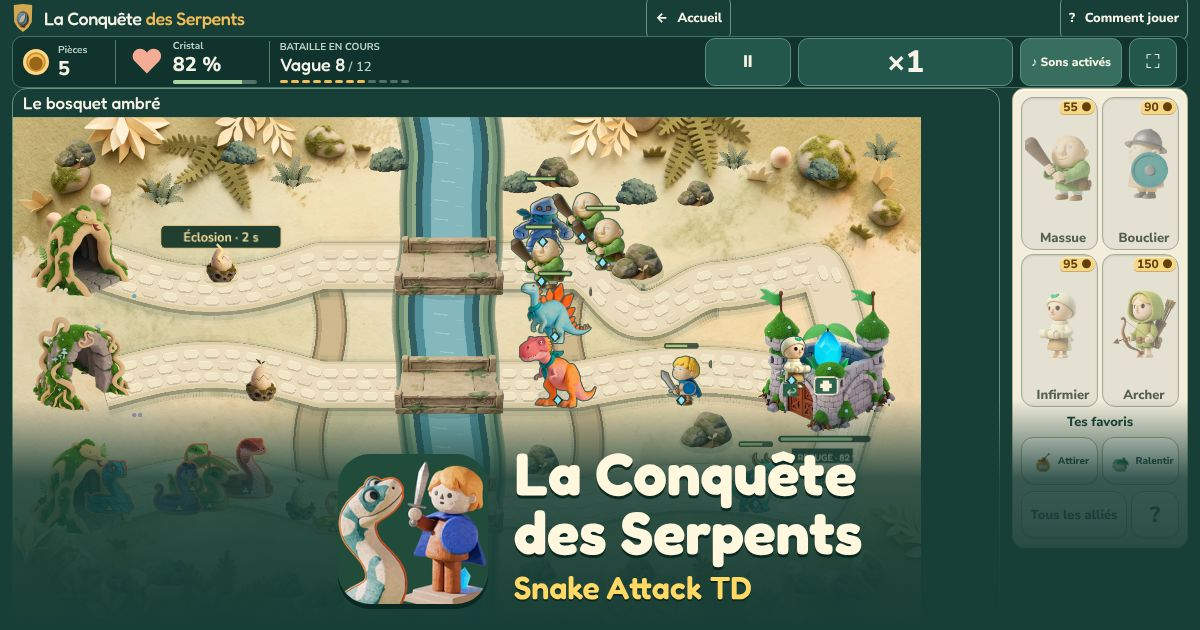
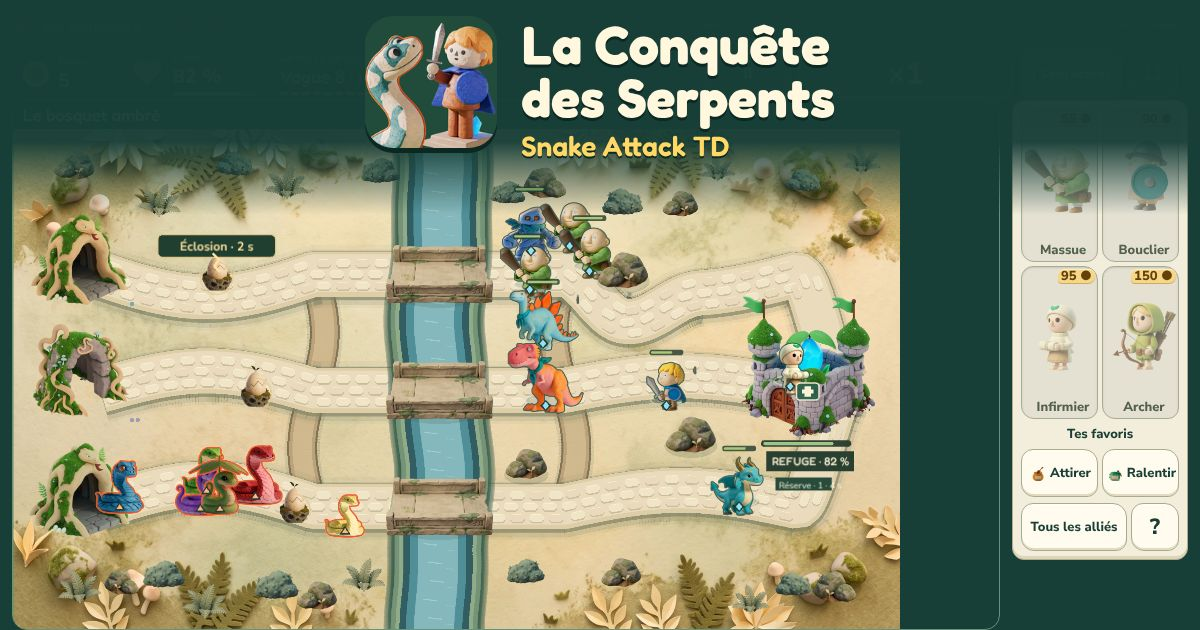
Corrections de la deuxième relecture : annonce et plaques, écran anglais, image de partage
- En bas du plateau, la ligne d'annonce se place au-dessus des plaques « Courage ! » et
  « Confusion » au lieu de cacher leur début : la scène dit à la page quand elle écrit là.
- Écran anglais « Threats » : « Voies ouvertes » restait en français (deux textes collés) ;
  c'est une seule phrase à trou.
- Écran des cadeaux sur téléphone : le clavier ne passe plus sur le plateau et les favoris
  cachés derrière le panneau ; anneau de focus plus foncé sur le papier ; anneau du plateau
  dessiné à l'intérieur.
- Image de partage : titre posé en haut, sur l'en-tête de la page ; tout le plateau reste
  visible (le bandeau cachait les serpents de la voie du bas).
- Documents : phrases devenues fausses corrigées, index des documents, décisions du parent
  et questions pour le fils issues de la relecture.

Claude-Session: https://claude.ai/code/session_0153huJungw2KXDp7mHDZLQs

diff --git a/src/render/BattleScene.ts b/src/render/BattleScene.ts
@@ -57,7 +57,7 @@ export class BattleScene extends Phaser.Scene {
   /** Canvas width the camera, the labels and the terrain cache were last fitted to. */
   private fittedWidth = 0;
   private motionQuery = window.matchMedia('(prefers-reduced-motion:reduce)');
-  private onPresentation: (notice: Notice | null, deltaMs: number) => void;
+  private onPresentation: (notice: Notice | null, deltaMs: number, plaques: boolean) => void;
   private resultStats!: Phaser.GameObjects.Text;
   private resultSubtitle!: Phaser.GameObjects.Text;
   private celebration!: Phaser.GameObjects.Graphics;
@@ -82,7 +82,7 @@ export class BattleScene extends Phaser.Scene {
     session: Session,
     onChange: () => void,
     onFrame: (game: Game) => void = () => {},
-    onPresentation: (notice: Notice | null, deltaMs: number) => void = () => {},
+    onPresentation: (notice: Notice | null, deltaMs: number, plaques: boolean) => void = () => {},
   ) {
     super('Battle');
     this.session = session;
@@ -250,7 +250,14 @@ export class BattleScene extends Phaser.Scene {
     }
     const game = this.session.game;
     this.presentation.update(game, delta);
-    this.onPresentation(this.presentation.notice, delta);
+    // The plaques of confusion and courage are written at the bottom of the board, where
+    // the line of the page announces events: the page is told, and steps aside.
+    const encounter = this.presentation.encounter;
+    this.onPresentation(
+      this.presentation.notice,
+      delta,
+      !!(encounter.confusion || encounter.encouragement),
+    );
     this.onFrame(game);
     this.ink.clear();
     this.honeyInk.clear();

diff --git a/src/ui/battleNotices.ts b/src/ui/battleNotices.ts
@@ -30,7 +30,8 @@ export function bindBattleNotices(
   const announcement = byId('battle-announcement');
   let previous = '';
   let previousAnnouncement = '';
-  return (notice: Notice | null, deltaMs = 0) => {
+  /** `plaques`: the board is writing at its bottom edge, where the announcement sits. */
+  return (notice: Notice | null, deltaMs = 0, plaques = false) => {
     const guide = getGuide(),
       placing = forceGuide();
     const { content, tone } = chooseBattleMessage(notice, guide, placing);
@@ -43,6 +44,7 @@ export function bindBattleNotices(
     });
     const title = notice?.title ?? (placing ? (guide.compact ?? guide.title) : (hint ?? ''));
     announcement.classList.toggle('placement-instruction', placing && !notice);
+    announcement.classList.toggle('above-plaques', plaques);
     if (title !== previousAnnouncement) {
       previousAnnouncement = title;
       setDisplayText(announcement, title);

diff --git a/src/ui/threatControls.ts b/src/ui/threatControls.ts
@@ -54,7 +54,9 @@ function showThreats(game: Game, preview: WaveThreats) {
   setDisplayText(byId('threat-title'), fill(TEXT.vagueNLesSerpentsAnnonces, preview.local));
   setDisplayText(
     byId('threat-lanes'),
-    TEXT.voiesOuvertes + preview.lanes.map((l) => LANE_NAMES[l]).join(' · '),
+    // One sentence with its place for the names: two texts stuck together are a sentence
+    // the English catalogue does not know, and half of it stayed in French.
+    fill(TEXT.voiesOuvertesN, preview.lanes.map((l) => LANE_NAMES[l]).join(' · ')),
   );
   const types = preview.entries.map((e) => e.kind);
   renderThreatCards(byId('wave-threat-list'), types);

diff --git a/src/i18n/dictionary.en.ts b/src/i18n/dictionary.en.ts
@@ -994,7 +994,7 @@ export const english: Readonly<Record<string, string>> = Object.freeze({
   "Vive": "Speedy",
   "Voici les prochains alliés. Le guide explique leurs rôles avant leur arrivée.": "Here are the next allies. The guide explains their roles before they arrive.",
   "Voie paisible.": "Peaceful lane.",
-  "Voies ouvertes :": "Open lanes:",
+  "Voies ouvertes : {0}": "Open lanes: {0}",
   "Voie{0} attaquée{1} : {2}. « — » : paisible.": "Lanes under attack: {2}. “—”: peaceful.",
   "Voir mes alliés": "See my allies",
   "Voir mon carnet": "View my sticker book",

diff --git a/src/texts/fr/advice.ts b/src/texts/fr/advice.ts
@@ -70,7 +70,7 @@ export const toucheADroiteN = 'Touche à droite · {0}';
 export const aRenforcerN = 'À renforcer : {0}';
 export const uneIdeeAvec = 'Une idée avec ';
 export const vagueNLesSerpentsAnnonces = 'Vague {0} · Les serpents annoncés';
-export const voiesOuvertes = 'Voies ouvertes : ';
+export const voiesOuvertesN = 'Voies ouvertes : {0}';
 export const nNEtAjouterDesSerpentsOrdinaires = '{0} {1} et ajouter des serpents ordinaires.';
 export const oeufPeutEclore = 'œuf peut éclore';
 export const oeufsPeuventEclore = 'œufs peuvent éclore';

diff --git a/src/styles/11-reinforcements.css b/src/styles/11-reinforcements.css
@@ -296,6 +296,12 @@
     background: var(--paper);
     color: var(--ink);
   }
+  /* The gifts cover the board and the favourites: what is under them is out of reach of a
+     keyboard too, instead of taking the focus where nothing shows it. */
+  #reward-panel:not([hidden]) ~ #game,
+  .play-layout:has(#reward-panel:not([hidden])) #battle-dock {
+    visibility: hidden;
+  }
   /* The way out without a gift sits beside the title, as tall as a finger: a row under the
      gifts would fall off a screen this low. */
   #reward-panel > * {

diff --git a/src/texts/en/advice.ts b/src/texts/en/advice.ts
@@ -68,7 +68,7 @@ export const toucheADroiteN = 'Tap on the right · {0}';
 export const aRenforcerN = 'Reinforce: {0}';
 export const uneIdeeAvec = 'An idea with';
 export const vagueNLesSerpentsAnnonces = 'Wave {0} · Incoming snakes';
-export const voiesOuvertes = 'Open lanes:';
+export const voiesOuvertesN = 'Open lanes: {0}';
 export const nNEtAjouterDesSerpentsOrdinaires = '{0} {1} and add ordinary snakes.';
 export const oeufPeutEclore = 'egg may hatch';
 export const oeufsPeuventEclore = 'eggs may hatch';

diff --git a/src/styles/16-dock.css b/src/styles/16-dock.css
@@ -135,6 +135,11 @@
   text-overflow: ellipsis;
   pointer-events: none;
 }
+/* Confusion and courage are written on the bottom edge of the board, 53 board units high
+   out of 620: the announcement goes just above them instead of over their words. */
+.battle-announcement.above-plaques {
+  bottom: calc(9% + 4px);
+}
 .battle-announcement.placement-instruction {
   width: max-content;
   max-width: calc(100% - 16px);

diff --git a/src/styles/01-base.css b/src/styles/01-base.css
@@ -68,6 +68,10 @@ summary:focus-visible,
   outline: 3px solid #dd9b25;
   outline-offset: 3px;
 }
+/* The board is clipped at its edges (03-board.css): its ring is drawn inside, whole. */
+#game:focus-visible {
+  outline-offset: -3px;
+}
 a {
   color: inherit;
   text-decoration: none;

diff --git a/src/styles/07-rewards.css b/src/styles/07-rewards.css
@@ -5,6 +5,10 @@
   color: #193e35;
   border-block: 1px solid #a0af91;
 }
+/* On paper the golden ring of the game is too pale to show where the focus is. */
+.reward-panel :focus-visible {
+  outline-color: #196a5b;
+}
 .reward-eyebrow {
   font-size: 11px;
   letter-spacing: 0.08em;

diff --git a/docs/SITE.md b/docs/SITE.md
@@ -206,9 +206,9 @@ Corrigé dans ce lot, sans décision à prendre :
 - Avant d'allumer la publicité : interdire au navigateur les fonctions publicitaires de
   profilage (`Permissions-Policy`), et adapter le contrôle du site en ligne, qui refuserait
   aujourd'hui la règle de sécurité de la page du jeu avec publicité.
-- Textes du jeu trop petits ou trop techniques pour un enfant qui lit lentement (10 à
-  12 px en paysage téléphone, textes du plateau à 5-9 px, « 1 alliés survivants ») : lot
-  suivant, rendu seul.
+- Textes du jeu trop petits pour un enfant qui lit lentement : traité le 18 novembre, sans
+  décision à prendre (`ARCHITECTURE.md`, « Textes lisibles sur téléphone »). Restent les
+  reformulations de phrases trop techniques, qui attendent l'accord du parent.
 
 Questions pour le fils (ses règles) :
 
@@ -220,6 +220,51 @@ Questions pour le fils (ses règles) :
 
 Non vérifié : aperçus réels dans les messageries ; compression et page 404 réelles de
 l'hébergeur ; aucun lecteur d'écran réel ; rien sur un vrai téléphone ni avec les enfants.
+
+### Deuxième relecture à huit angles — 18 novembre 2026
+
+Mêmes huit angles, sur les deux lots suivants (corrections du site, textes lisibles sur
+téléphone). Corrigé sans décision :
+
+- **Image de partage** : le bandeau du titre cachait les serpents de la voie du bas. Le
+  titre est maintenant posé en haut, sur l'en-tête de la page : tout le plateau reste
+  visible, et l'interface française de l'en-tête n'apparaît plus sur les pages anglaises.
+- **Écran anglais « Threats »** : « Voies ouvertes » restait en français, parce que deux
+  textes étaient collés bout à bout ; c'est maintenant une seule phrase à trou.
+- **Écran des cadeaux sur téléphone** : le clavier ne passe plus sur le plateau et les
+  favoris cachés derrière le panneau ; l'anneau de focus est plus foncé sur le papier.
+- **Documents** : phrases devenues fausses corrigées (pied de page de 8 pages et non 10,
+  dates, index des documents, numéro de build dans le README).
+
+Le détail du jeu (plaques du plateau, annonce) est dans `ARCHITECTURE.md`, « Textes lisibles
+sur téléphone ».
+
+À décider par le parent (rien n'est fait) :
+
+- « pose un Archer, il le touche de loin » promet trop : mesuré sur le vrai moteur, 100
+  départs, un Archer par voie — le serpent rare mord quand même 28 fois sur 100 à la vague
+  8 et 100 fois sur 100 à la vague 11. Proposé : « un Archer peut le toucher avant qu'il
+  morde ».
+- « tu vois quels serpents arrivent, et par quel chemin » : « Dangers » ne dit que quels
+  chemins sont ouverts.
+- « quand tu commences une nouvelle Aventure classique » : aucun bouton ne dit
+  « nouvelle » ; proposé : « Touche "La grande aventure" pour en commencer une nouvelle ».
+- La page parents parle de l'application Android au présent, alors qu'elle n'est pas
+  encore publique.
+- `README.md` (racine) : « publicité rare entre missions » contredit la règle « jamais dans
+  l'application ».
+- Un seul mot pour la même jauge : « Camp », « cristal », « ♥ », « REFUGE ».
+- Lot « montrer ce qui existe » (aucune règle touchée) : « Encourager » accessible pendant
+  la vague, annonce à l'arrivée d'un nouveau serpent, annonce d'un allié débloqué ; textes à
+  valider avec le fils.
+
+Questions de plus pour le fils : la sauterelle, une fois qu'elle a sauté, vole-t-elle
+encore ? Le serpent ninja qui se téléporte : une fois ou plusieurs, dans le dos de qui ?
+
+Reste à faire sans décision : les textes du plateau encore sous 11 px (miel, « Réserve »,
+garde du roi, symboles de menace), poser un allié au clavier, les textes d'interface encore
+sous 13 px (cadeaux, verrou des caprices, accueil), une page 404, le contrôle de la
+compression sur le site en ligne.
 
 ### Publicité — textes approuvés le 17 novembre 2026, rien d'activé
 
@@ -244,7 +289,8 @@ Un passage explicite de `null` à `discoveryPageHtml` permet encore de masquer l
 Depuis le 17 novembre 2026, le lien de paiement « Soutenir le développement » /
 « Support development » n'est plus que dans le bloc des pages parents FR/EN, avec la
 mention réservée aux adultes, facultative, en CHF et sans avantage dans le jeu ; le pied
-des 10 pages publiques mène à ce bloc, pas à PayPal. Aucun SDK,
+des 8 autres pages publiques mène à ce bloc, pas à PayPal (les pages parents, qui le
+montrent, n'ont plus ce lien dans leur pied). Aucun SDK,
 iframe, préchargement PayPal ou traitement de carte sur le site. Le lien ouvre un
 nouvel onglet avec `noopener noreferrer nofollow`, sans profil ni code de partie.
 

diff --git a/docs/README.md b/docs/README.md
@@ -1,6 +1,6 @@
 # Documents du projet
 
-Quatorze documents vivants. Tout le reste est de l'historique, rangé dans [archive/](archive/).
+Treize documents vivants, puis les comptes rendus de lots. Tout le reste est de l'historique, rangé dans [archive/](archive/).
 
 ## À lire pour travailler
 
@@ -13,7 +13,6 @@ Quatorze documents vivants. Tout le reste est de l'historique, rangé dans [arch
 | [VOYAGE.md](VOYAGE.md)                                                 | Le voyage : réglages proposés, mesures, décisions à prendre                             |
 | [SITE.md](SITE.md)                                                     | Hébergement Infomaniak, publication manuelle, confidentialité et migration des familles |
 | [ANDROID.md](ANDROID.md)                                               | Construire l'APK et ce qui a été essayé sur le téléphone                                |
-| [SITE.md](SITE.md)                                                     | Le site sur Infomaniak : publier, revenir en arrière                                    |
 | [BILAN-0.38.0.md](BILAN-0.38.0.md)                                     | Compte rendu de la dernière version publiée                                             |
 | [BILAN-NETTOYAGE-2026-11.md](BILAN-NETTOYAGE-2026-11.md)               | Nettoyage du code de novembre : fait, vérifié, ce qui reste                             |
 | [BILAN-REVISION-3.md](BILAN-REVISION-3.md)                             | Révision d'équilibrage 3 (un œuf de plus quand une vague dure) : mesures et preuves     |
@@ -21,6 +20,20 @@ Quatorze documents vivants. Tout le reste est de l'historique, rangé dans [arch
 | [AUDIT-VISUEL-MOBILE-2026-11-10.md](AUDIT-VISUEL-MOBILE-2026-11-10.md) | Audit des menus et de la direction artistique                                           |
 | [IDENTIFIANTS-APPLICATION.md](IDENTIFIANTS-APPLICATION.md)             | Paquet Android accepté sur Play, signatures et mises à jour                             |
 | [ARCHIVES.md](ARCHIVES.md)                                             | Ce qui est sorti de Git et comment le retrouver                                         |
+
+## Comptes rendus de lots
+
+| Document                                                                             | Lot                                                             |
+| ------------------------------------------------------------------------------------ | --------------------------------------------------------------- |
+| [BILAN-0.37.0.md](BILAN-0.37.0.md)                                                   | Version 0.37.0                                                  |
+| [BILAN-WEB-2026-11-16.md](BILAN-WEB-2026-11-16.md)                                   | Pages publiques du site (Codex)                                 |
+| [BILAN-SOUTIEN-WEB-2026-11-16.md](BILAN-SOUTIEN-WEB-2026-11-16.md)                   | Lien de soutien PayPal (Codex)                                  |
+| [BILAN-ADSENSE-LIAISON-2026-11-16.md](BILAN-ADSENSE-LIAISON-2026-11-16.md)           | Liaison du compte AdSense (Codex)                               |
+| [BILAN-ADSENSE-PREPARATION-2026-11-16.md](BILAN-ADSENSE-PREPARATION-2026-11-16.md)   | Maquette de l'encart publicitaire (Codex)                       |
+| [publication/PUBLICITE-WEB-PROPOSITION.md](publication/PUBLICITE-WEB-PROPOSITION.md) | Publicité sur le site : décisions, textes approuvés, activation |
+
+Ces comptes rendus de Codex s'appuient sur un « conseil » de points de vue simulés : ce ne
+sont pas des essais avec des personnes (`CLAUDE.md`).
 
 Les règles du jeu sont à la racine : `GAME_DESIGN.md`, `AGENTS.md`, `CLAUDE.md`.
 
